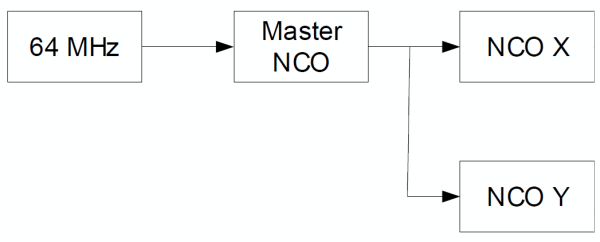
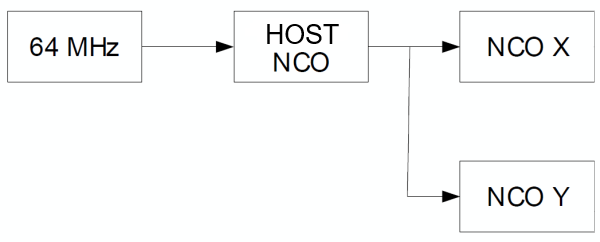
MPAE-21244 update Readme.md file with changes from Pilar Alcaine update image cnc.png and update main.json with correct xc8 version

Changed region(s): [[0.42, 0.0868, 0.57, 0.2025]]

diff --git a/README.md b/README.md
@@ -2,8 +2,8 @@
 
 # PIC18F57Q84 Two Axis CNC Machine
 
-This project demonstrates an implementation of a 2-axis computer numerical
-control (CNC) machine which makes use of the Numerically Controlled Oscillator (NCO), Direct Memory Address (DMA) and other Core Independent Peripherals
+This project demonstrates an implementation of a 2-axis Computer Numerical
+Control (CNC) machine which makes use of the Numerically Controlled Oscillator (NCO), Direct Memory Address (DMA) and other Core Independent Peripherals
 (CIPs) to handle acceleration and movement with minimal input from the
 microcontroller core.
 
@@ -13,13 +13,7 @@ microcontroller core.
 This is a general overview of the application. A more complete explanation can
  be found in the associated Appllication Note.
 
- Numerically Controlled Oscillators are a peripheral which work by creating
- an output frequency which is a precise fraction of the input frequency.
- This output frequency is a function of two values, the input frequency, and the
- value of the increment register of the NCO.
- This project makes use of three NCOs, a master NCO which determines overall speed,
-  and a slave NCO for each axis which determines the proportion of speed in each
-  axis, set up as shown below.
+ The NCOs are a peripheral which work by creating an output frequency which is a precise fraction of the input frequency. This output frequency is a function of two values, the input frequency, and the value of the increment register of the NCO.This project makes use of three NCOs, a host NCO which determines overall speed, and a client NCO for each axis which determines the proportion of speed in each axis, set up as shown below.
 
    ![CNC Overview](images/cnc.png)
 
@@ -28,18 +22,16 @@ axis, the X NCO can be set to produce twice the frequency of output as the
 Y NCO. This means that X will move twice as fast, and therefore cover twice
 the distance.
 
-Additionally, because both frequencies are a function of the master
-frequency, if the master frequency is doubled, the speed in both axes will be
-doubled, while maintaining the same proportion (e.g. X will still be going twice
-as fast as Y, and will therefore still cover twice the distance).
+Additionally, because both frequencies are a function of the host
+frequency, if the host frequency is doubled, the speed in both axes will be
+doubled, while maintaining the same proportion (e.g., X will still be going twice as fast as Y, and will therefore still cover twice the distance).
 
-Direct Memory Address (DMA) is a module which can copy data from one memory
-location to another without any CPU intervention. DMA operation can be configured to start and/or abort based on several built-in trigger options. Acceleration of the machine can be achieved by using the DMA to gradually increase or decrease the value in the increment register of the NCO, resulting in the frequency of the master NCO, and therefore the speed of movement in the two axes, increasing or decreasing proportionally.
+The DMA is a module which can copy data from one memory location to another without any CPU intervention. DMA operation can be configured to start and/or abort based on several built-in trigger options. Acceleration of the machine can be achieved by using the DMA to gradually increase or decrease the value in the increment register of the NCO, resulting in the frequency of the host NCO, and therefore the speed of movement in the two axes, increasing or decreasing proportionally.
 
 The distance travelled in each direction can be known by counting the number of
-pulses from the master NCO. In short, this is because if the master
-NCO has produced the requisite number of output ticks, the two slave NCOs have
-moved the steppers in both axes the correct distance.
+pulses from the host NCO. In short, this is because if the host
+NCO has produced the requisite number of output ticks, the two client NCOs have
+moved the steppers in both axis the correct distance.
 
 
 ## Related Documentation
@@ -50,73 +42,65 @@ moved the steppers in both axes the correct distance.
 
 ## Software Used
 
-  - [MPLAB® X IDE v6.25.0](https://www.microchip.com/en-us/development-tools-tools-and-software/mplab-x-ide) or newer
-  - [MPLAB® XC8 v3.1.0](https://www.microchip.com/en-us/tools-resources/develop/mplab-xc-compilers/xc8) or newer
+  - [MPLAB® X IDE v6.25](https://www.microchip.com/en-us/development-tools-tools-and-software/mplab-x-ide) or newer
+  - [MPLAB® XC8 v3.10](https://www.microchip.com/en-us/tools-resources/develop/mplab-xc-compilers/xc8) or newer
   - [MPLAB® Code Configurator (MCC) v5.6.3](https://www.microchip.com/mplab/mplab-code-configurator) or newer 
-  - [Microchip PIC18F-Q Series Device Support (1.18.451](https://packs.download.microchip.com/) or newer
+  - [Microchip PIC18F-Q Series Device Support v1.18.451](https://packs.download.microchip.com/) or newer
 
 ## Hardware Used
 
 
-- [PIC18F57Q43 Curiosity Nano](https://www.microchip.com/Developmenttools/ProductDetails/DM164150)
+- [PIC18F57Q43 Curiosity Nano Evaluation Kit](https://www.microchip.com/Developmenttools/ProductDetails/DM164150)
 -  [Curiosity Nano Base for Click boards™](https://www.microchip.com/Developmenttools/ProductDetails/AC164162)
-- 2x Stepper Click board™ [(MIKROE-3402)](https://www.mikroe.com/stepper-click)
+- Quantity 2 Stepper Click boards [(MIKROE-1528)](https://www.mikroe.com/stepper-click)
 - 2 Axis CNC gantry - The code is designed to be flexible, such that it can
 be modified to work with almost any XY stepper gantry selected, provided
-the power requirements are not too great.
-- 2x Limit switches - Switches should be located such that they are pressed when
-the platform is at the (0, 0) position, and should be high when pressed.
-- 2x stepper motors - The motors used will depend on the gantry, ensure
+the power requirements are not too great
+- Quantity 2 Limit switches - Switches should be located such that they are pressed when the platform is at the (0, 0) position, and should be high when pressed
+- Quantity 2 Stepper motors - The motors used will depend on the gantry, ensure
 that they both move the end effector the same distance per tick, and must be
-2-pole (4 wire) to work with the Stepper Click board™
-- End Effector - Choice of end effector is likewise left flexible. As configured,
-the end effector selected should be raised when the pin controlling it is low,
-and lowered when the pin is high. This can be modified as needed to work with
-a selected end effector.
+2-pole (4 wire) to work with the Stepper Click board
+- End Effector - Choice of end effector is likewise left flexible. As configured, the end effector selected should be raised when the pin controlling it is low, and lowered when the pin is high. This can be modified as needed to work with a selected end effector
 
 ![Platform](images/platform.png)
 
 ## Setup
 
-Most configuration is done through the config.h file. The configurations are:
+Most configuration is done through the `config.h` file. The configurations are:
 
-- `TICKS_PER_METER`: the number of steps of the stepper motor required to move the
-end effector one meter
+- `TICKS_PER_METER`: the number of steps of the stepper motor required to move the end effector one meter
 - `X_MAX`/`Y_MAX`: the maximum range, in steps, of the X and Y axes
 - `X_BACKWARDS`/`Y_BACKWARDS`: whether to reverse the direction of the stepper
 motor on this axis
-- `BUFFER_NUMBER_PACKETS`: the size of the command buffer. This can be left at the
-default 5
+- `BUFFER_NUMBER_PACKETS`: the size of the command buffer. This can be left at the default 5.
 
-Pinout of the various pins (e.g. limit switches, the Click™ boards, the
-actuator, etc) is defined in config.h with two constants per pin,
+Pinout of the various pins (e.g., the limit switches, the Click boards, the
+actuator, etc) is defined in `config.h` with two constants per pin,
  `NAME_PIN_PORT` and `NAME_PIN_POS`.
- For example, to have pin Y_ENABLE on RA6, the code would be
+ For example, to have Y_ENABLE pin on RA6, the code would be
 
 ```
 #define Y_ENABLE_PIN_PORT RA
 #define Y_ENABLE_PIN_POS 6
 ```
 
-As configured, the Y axis Stepper Click board™ should go in slot 1, and the X
-axis should be in slot 3 of the curiosity nano base board.
+As configured, the Y axis Stepper Click board should go in slot 1, and the X
+axis should be in slot 3 of the Curiosity Nano Base board.
 
-By default the limit switch pin for the Y axis is RA1, and the X axis is RC7.
+By default, the limit switch pin for the Y axis is RA1, and the X axis is RC7.
 The actuator is on pin RF2.
 
 If an alternate method of controlling the actuator is desired, the relevant
-functions to modify are `Platform_RaiseActuator()` and `Platform_LowerActuator()` in
-platform.c which by default simply set ACTUATOR_PIN high/low.
+functions to modify are `Platform_RaiseActuator()` and `Platform_LowerActuator()` in `platform.c` which by default simply set ACTUATOR_PIN high/low.
 
 
 ## Operation
 
 The CNC machine should be connected to the PC via USB. Operation of the PC
-control GUI is explained in detail in the readme file in the pc-application
-directory. An example G-Code that will draw a star is included in that
+control Graphical User Interface (GUI) is explained in detail in the readme file in the pc-application directory. An example, G-Code that will draw a star is included in that
 directory.
 
-For the purposes of creating G-Code, the machine operates in the x and y axis,
+For the purposes of creating G-Code, the machine operates in the X and Y axis,
 with the location of the limit switches as (0, 0) and proceeding in the
 positive direction. A value of Z0 will cause the end effector to lower, any
 other value will cause it to raise.  Operation is limited to linear movement.
